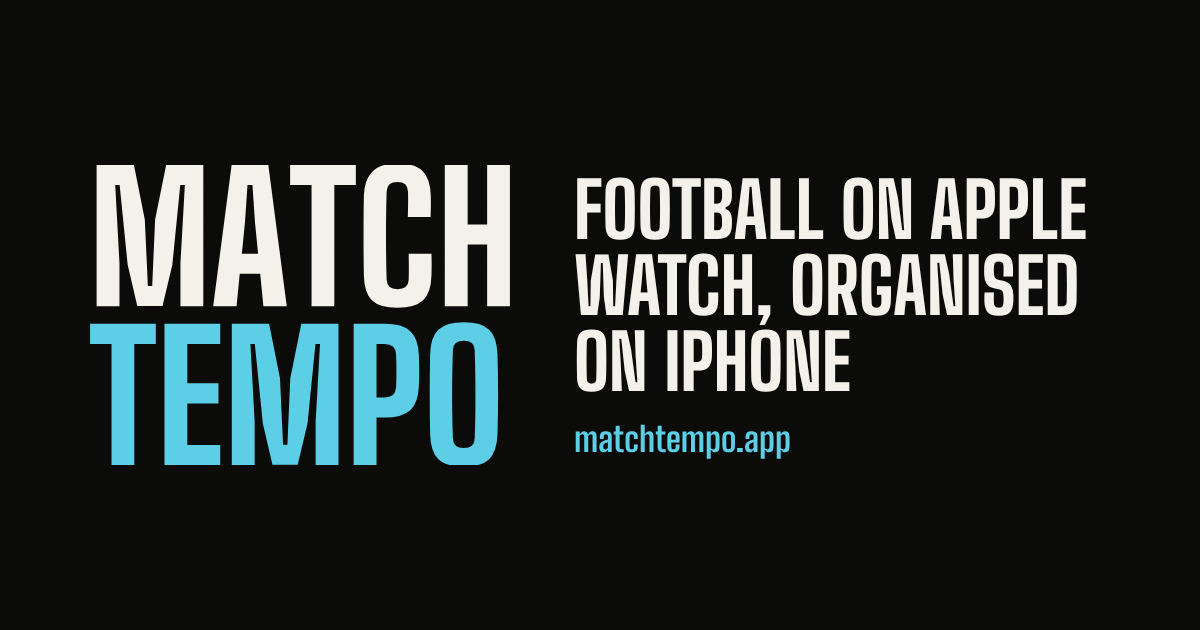
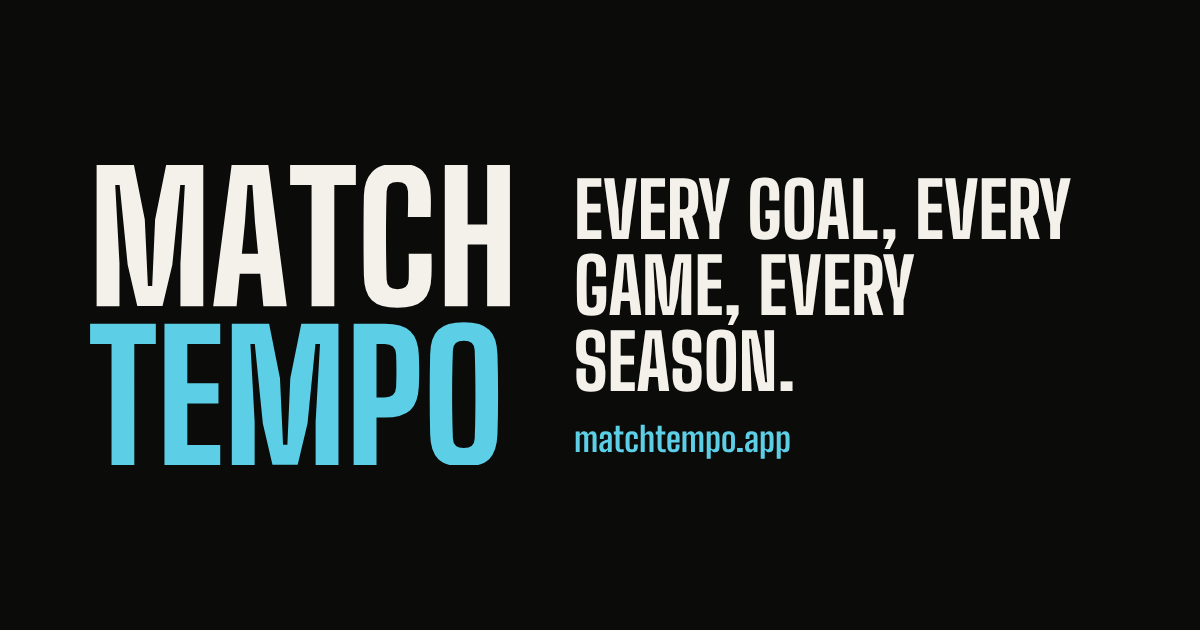
Site: new headline, players and organisers tabs

Changed region(s): [[0.4625, 0.2714, 0.925, 0.6333]]

diff --git a/index.html b/index.html
@@ -4,9 +4,9 @@
 <meta charset="utf-8">
 <meta name="viewport" content="width=device-width, initial-scale=1">
 <title>MatchTempo</title>
-<meta name="description" content="MatchTempo records casual football on Apple Watch and helps organise the game on iPhone. In testing now.">
+<meta name="description" content="Every goal, every game, every season. Your regular football game, properly organised and properly remembered. In testing now.">
 <meta property="og:title" content="MatchTempo">
-<meta property="og:description" content="Football on Apple Watch, organised on iPhone. In testing now.">
+<meta property="og:description" content="Your regular game, properly organised and properly remembered. In testing now.">
 <meta property="og:url" content="https://matchtempo.app/">
 <meta property="og:image" content="https://matchtempo.app/assets/og-image.png">
 <meta name="theme-color" content="#0B0B0A">
@@ -23,19 +23,46 @@
 
 <main>
 <section class="hero">
-<h1>Football on Apple Watch, organised on iPhone</h1>
-<p class="lead">MatchTempo records casual games on your Watch and helps you run them from your phone.</p>
-<div><span class="status">In testing with our Thursday and Monday groups · not yet on the App Store</span></div>
+<h1>Every goal, every game, every season.</h1>
+<p class="lead">Your regular game, properly organised and properly remembered: who played, who scored, and who's top of the table.</p>
+<p>For the five-a-side after work, the weekend kickabout, and every group chat that sorts out who's playing.</p>
+<div><span class="status">Being tested by our Thursday and Monday groups · not on the App Store yet</span></div>
 <p style="margin-top: 20px"><a class="btn" href="/get/">Join the beta</a></p>
 </section>
 
-<div class="cards">
-<div class="card"><h3>On your wrist</h3><p>Time, heart rate, distance and calories, big enough to read mid-game.</p></div>
-<div class="card"><h3>The score</h3><p>Tap to record a goal, undo a mistake, and mark the ones that were yours.</p></div>
-<div class="card"><h3>After the game</h3><p>Your match on iPhone: heart rate through the game, recovery and every goal.</p></div>
-<div class="card"><h3>For organisers</h3><p>Who's in, two even teams and the result, shared to the group chat as text.</p></div>
+<section class="features" aria-label="What MatchTempo does">
+<div class="tabs" role="tablist" aria-label="Who it's for">
+<button type="button" role="tab" id="tab-players" aria-controls="players" aria-selected="true">For players</button>
+<button type="button" role="tab" id="tab-organisers" aria-controls="organisers" aria-selected="false" tabindex="-1">For organisers</button>
 </div>
-<p class="meta" style="margin-top: 20px">Your recordings stay on your Watch and iPhone. There's no account to create.</p>
+
+<div class="panel" role="tabpanel" id="players" aria-labelledby="tab-players" tabindex="0">
+<ul class="feat">
+<li><span class="t">Your game at a glance</span><span class="d">Time, heart rate, distance and calories on your Watch, in type big enough to read mid-game.</span><span class="tag beta">In the beta</span></li>
+<li><span class="t">Keep the score</span><span class="d">Tap to add a goal for either side, undo a mistake, and mark the ones you scored.</span><span class="tag beta">In the beta</span></li>
+<li><span class="t">No phone on the pitch</span><span class="d">The Watch records on its own and passes everything to your iPhone afterwards.</span><span class="tag beta">In the beta</span></li>
+<li><span class="t">Look back at the game</span><span class="d">Heart rate through the match, your recovery afterwards, and every goal with its minute.</span><span class="tag beta">In the beta</span></li>
+<li><span class="t">Rate how it went</span><span class="d">Score your effort and enjoyment after each game, and see how they change over a season.</span><span class="tag">Planned</span></li>
+<li><span class="t">Your player card</span><span class="d">Appearances, goals and Player of the Match awards, on a card you can share.</span><span class="tag">Planned</span></li>
+<li><span class="t">Reply and vote from a link</span><span class="d">Say you're in, get a reminder with the kick-off time and place, and vote for Player of the Match, even without the app.</span><span class="tag">Planned</span></li>
+</ul>
+</div>
+
+<div class="panel" role="tabpanel" id="organisers" aria-labelledby="tab-organisers" tabindex="0" hidden>
+<ul class="feat">
+<li><span class="t">Who's in</span><span class="d">Keep your player list, tick who's playing this week and add guests.</span><span class="tag beta">In the beta</span></li>
+<li><span class="t">Teams in seconds</span><span class="d">Shuffle into even sides with the keepers apart, then adjust by hand.</span><span class="tag beta">In the beta</span></li>
+<li><span class="t">Straight to the group chat</span><span class="d">Send the teams and the result to WhatsApp as plain text. Nobody needs the app to read them.</span><span class="tag beta">In the beta</span></li>
+<li><span class="t">A record of who played</span><span class="d">Confirm the teams after the game, including swaps and late arrivals, then add the score and scorers.</span><span class="tag beta">In the beta</span></li>
+<li><span class="t">Replies by link</span><span class="d">Players say in or out from a link, with a player limit and a waiting list when it's full.</span><span class="tag">Planned</span></li>
+<li><span class="t">Seasons and tables</span><span class="d">Group seasons with a league table, and a Player of the Match vote after each game.</span><span class="tag">Planned</span></li>
+<li><span class="t">Share the work</span><span class="d">Let someone else run a game for a week without handing over the whole group.</span><span class="tag">Planned</span></li>
+</ul>
+</div>
+<p class="meta" style="margin-top: 16px">Organising, replying and voting will work in any phone's browser, iPhone or Android, with no download needed. Recording a game needs an Apple Watch for now. Football first; hockey is planned for later.</p>
+</section>
+
+<p class="meta" style="margin-top: 28px">Your recordings stay on your Watch and iPhone, and there's no account to create. <a href="/privacy/">How we handle your data</a>.</p>
 </main>
 
 <footer>
@@ -45,5 +72,31 @@
 <span>Apple Watch and iPhone are trademarks of Apple Inc.</span>
 </footer>
 </div>
+<script>
+(function () {
+  var tabs = Array.prototype.slice.call(document.querySelectorAll('[role="tab"]'));
+  function show(tab, focus) {
+    tabs.forEach(function (t) {
+      var on = t === tab;
+      t.setAttribute('aria-selected', String(on));
+      t.tabIndex = on ? 0 : -1;
+      document.getElementById(t.getAttribute('aria-controls')).hidden = !on;
+    });
+    if (focus) tab.focus();
+    try { history.replaceState(null, '', '#' + tab.getAttribute('aria-controls')); } catch (e) {}
+  }
+  tabs.forEach(function (t, i) {
+    t.addEventListener('click', function () { show(t, false); });
+    t.addEventListener('keydown', function (e) {
+      if (e.key === 'ArrowRight' || e.key === 'ArrowLeft') {
+        e.preventDefault();
+        show(tabs[(i + (e.key === 'ArrowRight' ? 1 : tabs.length - 1)) % tabs.length], true);
+      }
+    });
+  });
+  if (location.hash === '#organisers') show(tabs[1], false);
+})();
+</script>
+<noscript><style>.panel[hidden]{display:block}.tabs{display:none}</style></noscript>
 </body>
 </html>

diff --git a/assets/site.css b/assets/site.css
@@ -44,6 +44,18 @@ strong { color: var(--text); font-weight: 700; }
 .card h3 { margin: 0 0 6px; color: var(--accent); font-size: 20px; }
 .card p { margin: 0; }
 
+.features { margin-top: 40px; }
+.tabs { display: grid; grid-template-columns: repeat(2, minmax(0, 1fr)); gap: 4px; padding: 4px; border-radius: 26px; background: var(--surface); max-width: 460px; }
+.tabs button { min-height: 48px; border: 0; border-radius: 22px; background: transparent; color: var(--text-2); font-family: var(--display); font-weight: 800; font-size: 20px; text-transform: uppercase; letter-spacing: 0.03em; cursor: pointer; }
+.tabs button[aria-selected="true"] { background: var(--accent); color: var(--ground); }
+.panel { margin-top: 16px; }
+.feat { list-style: none; padding: 0; margin: 0; display: grid; gap: 10px; }
+.feat li { margin: 0; max-width: none; background: var(--surface); border-radius: 18px; padding: 14px 18px; display: grid; grid-template-columns: minmax(0, 1fr) auto; gap: 4px 12px; align-items: start; }
+.feat .t { font-family: var(--display); font-weight: 800; font-size: 22px; text-transform: uppercase; color: var(--text); line-height: 1.1; }
+.feat .d { grid-column: 1 / -1; color: var(--text-2); }
+.feat .tag { grid-column: 2; grid-row: 1; font-size: 14px; color: var(--muted); padding: 2px 10px; border-radius: 12px; box-shadow: inset 0 0 0 1.5px var(--line); white-space: nowrap; }
+.feat .tag.beta { color: var(--accent); box-shadow: inset 0 0 0 1.5px var(--accent); }
+
 .meta { color: var(--muted); font-size: 16px; }
 .note { background: var(--surface); border-radius: 16px; padding: 14px 18px; margin: 20px 0; }
 
